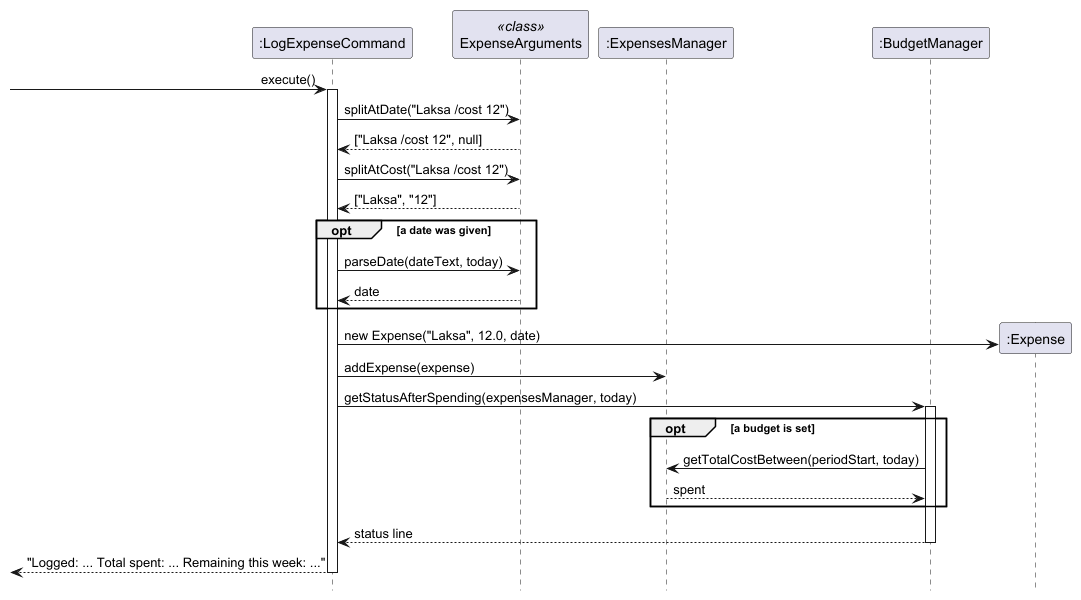
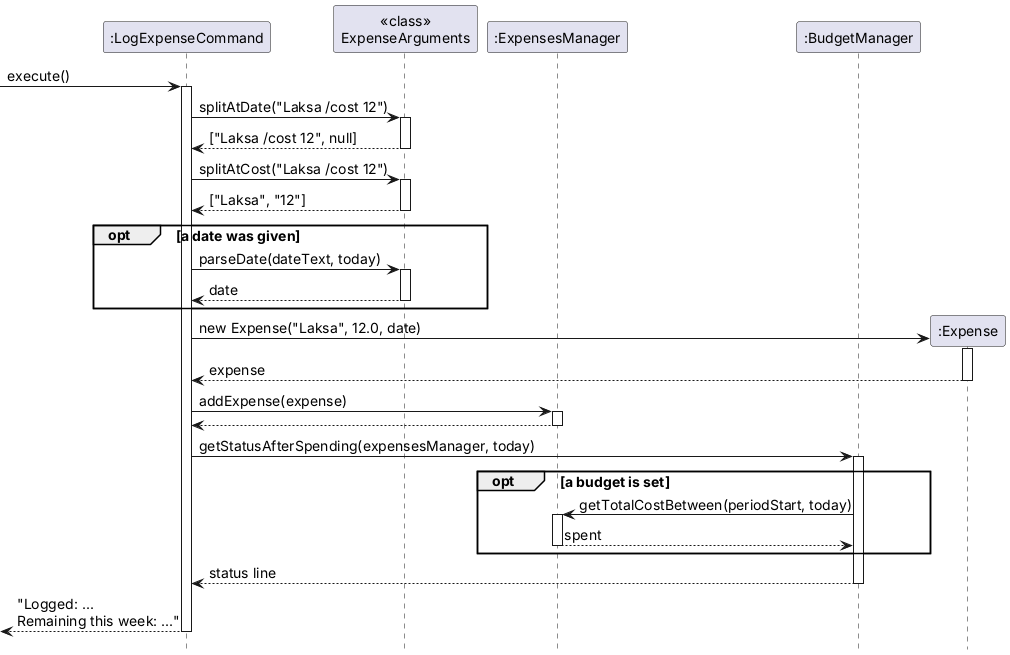
fixed the DG according to Rosini's feedback

diff --git a/docs/DeveloperGuide.md b/docs/DeveloperGuide.md
@@ -1,5 +1,17 @@
 # Developer Guide
 
+## Acknowledgements
+
+* The project template, and the structure of this Developer Guide and the User Guide, are adapted from
+  [AddressBook-Level3](https://se-education.org/addressbook-level3/) by the [SE-EDU initiative](https://se-education.org/).
+* The design of `TextUi`, `StorageFile`, `Encoder` and `Decoder` is adapted from the SE-EDU AddressBook-Level2 template
+  provided for this course.
+* Third-party tools: [JUnit 5](https://junit.org/junit5/) for testing, [Gradle](https://gradle.org/) with the
+  [Shadow plugin](https://gradleup.com/shadow/) for building, [Checkstyle](https://checkstyle.org/) for code style, and
+  [PlantUML](https://plantuml.com/) for the diagrams.
+* AI use: team members used AI assistants (such as Claude and Codex) to help draft parts of the code, tests and
+  documentation. All AI-generated content was reviewed, tested and edited by the team.
+
 ## Design & implementation
 
 ### Parser and Command component
@@ -66,6 +78,8 @@ user's data.
 
 ![Model Class Diagram](images/ModelClassDiagram.png)
 
+*Figure: Classes that hold the user's ratings, expenses and budget while the app runs.*
+
 The model holds all user data in memory while the app runs:
 
 * `RatingsManager` holds a list of `Rating`s (stall, food and a score from 0 to 10).
@@ -75,26 +89,29 @@ The model holds all user data in memory while the app runs:
   works out how much of the budget has been spent by asking `ExpensesManager`
   for totals.
 * `Money` is the single place for the rules about amounts of money (positive, at
-  most 2 decimal places, a maximum) and for formatting amounts as `$4.50`.
+  most 2 decimal places, a maximum) and for formatting amounts as `$4.50`. Its
+  methods are static (shown underlined), as it holds no data of its own.
 
 Indexes in the public methods of the managers start from 1, matching the
 numbers the user sees in `list-ratings` and `list-expenses`. Each manager checks
 the index and throws a `BudgetBiteException` with a helpful message if it is
 out of range.
 
-### Expense tracking
+### Logging an expense
 
 #### Implementation
 
-The expense feature lets users log, list, edit and delete food expenses
-(`log-expense`, `list-expenses`, `edit-expense`, `delete-expense`). Each
-`Expense` holds a food name, a cost and a date, and all expenses are kept in an
-`ExpensesManager`.
+Users log what they spend on food with `log-expense FOOD_NAME /cost AMOUNT
+[/date YYYY-MM-DD]`. Each `Expense` holds a food name, a cost and a date, and all
+expenses are kept in an `ExpensesManager`. The related commands `list-expenses`,
+`edit-expense` and `delete-expense` work on the same list.
 
 The sequence diagram below shows how `log-expense Laksa /cost 12` is executed
 when a budget is set.
 
 ![Log Expense Sequence Diagram](images/LogExpenseSequenceDiagram.png)
+
+*Figure: Executing `log-expense Laksa /cost 12`. `<<class>>` marks calls to static methods of `ExpenseArguments`.*
 
 1. `LogExpenseCommand` uses `ExpenseArguments#splitAtDate` to split off an
    optional `/date`, then `ExpenseArguments#splitAtCost` to separate the food
@@ -107,7 +124,7 @@ when a budget is set.
    date is used.
 4. The new `Expense` is added to `ExpensesManager`.
 5. `BudgetManager#getStatusAfterSpending` adds a line about the budget to the
-   response (see [Budget tracking](#budget-tracking)).
+   response (see [Checking spending against a budget](#checking-spending-against-a-budget)).
 
 `Expense` objects cannot be changed after creation. `edit-expense` creates a
 copy with the new cost (`Expense#withCost`), which keeps the original date, and
@@ -149,7 +166,7 @@ the format `FOOD_NAME|COST|DATE`.
     * Cons: Tests of dates and budgets would pass or fail depending on the day
       they are run.
 
-### Budget tracking
+### Checking spending against a budget
 
 #### Implementation
 
@@ -168,6 +185,16 @@ current period: today for `DAILY`, this Monday for `WEEKLY`
 `MONTHLY`. `BudgetManager#getSpent` then calls
 `ExpensesManager#getTotalCostBetween(startDate, today)`, which adds up the
 expenses dated in that range.
+
+The object diagram below shows the objects after `set-budget weekly 50` and three
+logged expenses, when today is Wednesday 2026-10-28. The week started on Monday
+2026-10-26, so `BudgetManager` asks `ExpensesManager` for the total from
+2026-10-26 to 2026-10-28. Only `e2` and `e3` are in that range, so $16.50 of the
+$50.00 budget is used.
+
+![Budget Object Diagram](images/BudgetObjectDiagram.png)
+
+*Figure: Objects for a weekly budget. Only expenses dated in the current week count towards it.*
 
 **Warnings.** After each `log-expense`, `BudgetManager#getStatusAfterSpending`
 returns:
@@ -665,10 +692,6 @@ The food-navigation feature includes:
 
 The feature does not include live menu updates, stall opening hours, food
 ordering, payment, delivery, GPS directions, or real-time stock availability.
-
-### Value proposition
-
-{Describe the value proposition: what problem does it solve?}
 
 ## User Stories
 

diff --git a/docs/README.md b/docs/README.md
@@ -1,7 +1,8 @@
-# Duke
+# BudgetBite
 
-{Give product intro here}
-Food
+BudgetBite is a command-line app for NUS students to find food on campus, rate the dishes they try, and keep
+their food spending within a budget.
+
 Useful links:
 * [User Guide](UserGuide.md)
 * [Developer Guide](DeveloperGuide.md)
